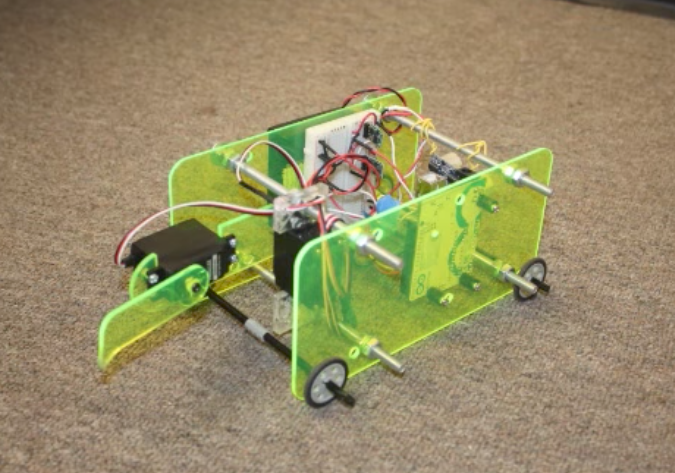
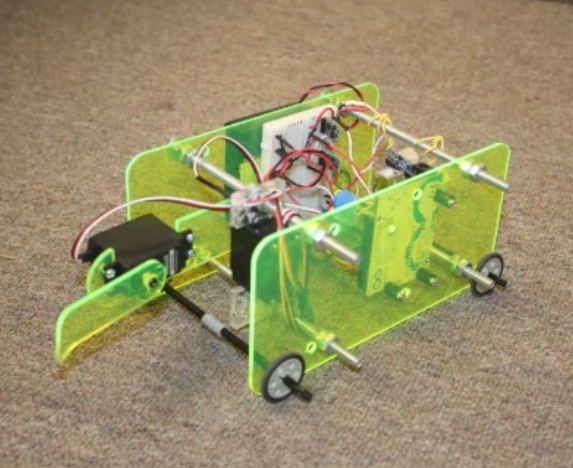
commit

diff --git a/index.md b/index.md
@@ -25,7 +25,7 @@ layout: page
     <p>An interesting property of Wikipedia is that pages often have first-links that lead to their immediate superset.  For example, 'poker' links to 'card game', 'card game' links to 'game', etc.  In this post the first-links of Wikipedia are extracted and used to construct a taxonomy of all pages.  Included is an explorable taxonomy visualizer and some analysis of the taxonomy's structure.</p>
   </td>
   <td width="50%" class="full">
-       <a href="/wikilinks/"><img src="wikilinks/net70k.png" height="210" width="210"></a>
+       <a href="/wikilinks/"><img src="wikilinks/net70k.png" height="420" width="420"></a>
        <br /><br />
    </td>
 </tr>
@@ -41,7 +41,7 @@ layout: page
        <p>This post looks at the effectiveness of deep CNNs for recognizing objects in satellite images.The Functional Map of the World (fMoW) dataset contains satellite images of 62 classes of objects. The objects span a variety of shapes and sizes and have a highly biased class distribution.  This post documents some observations made while training a CNN for the fMoW dataset.</p>
    </td>
    <td width="50%" class="full">
-       <a href="/fmow/"><img src="fmow/notebook-im-probability.png" height="210" width="210"></a>
+       <a href="/fmow/"><img src="fmow/notebook-im-probability.png" height="420" width="420"></a>
        <br /><br />
    </td>
  </tr>
@@ -59,7 +59,7 @@ layout: page
        </p>
    </td>
    <td width="50%" class="full">
-       <a href="/rl/"><img src="rl/notebook_im.png" height="210" width="210"></a>
+       <a href="/rl/"><img src="rl/notebook_im.png" height="420" width="420"></a>
        <br /><br />
    </td>
  </tr>
@@ -78,7 +78,7 @@ layout: page
        </p>
    </td>
    <td width="50%" class="full">
-       <a href="/cm-clustering/"><img src="cm-clustering/notebook_im.png" height="210" width="210"></a>
+       <a href="/cm-clustering/"><img src="cm-clustering/notebook_im.png" height="420" width="420"></a>
        <br /><br />
    </td>
  </tr>
@@ -97,7 +97,7 @@ layout: page
        </p>
    </td>
    <td width="50%" class="full">
-       <a href="/neuroev/"><img src="neuroev/giphy.gif" height="210" width="210"></a>
+       <a href="/neuroev/"><img src="neuroev/giphy.gif" height="420" width="420"></a>
        <br /><br />
    </td>
  </tr>
@@ -115,7 +115,7 @@ layout: page
          </p>
      </td>
      <td width="50%" class="full">
-         <a href="/bellman/"><img src="bellman/dice2.JPG" height="210" width="210"></a>
+         <a href="/bellman/"><img src="bellman/dice2.JPG" height="420" width="420"></a>
          <br /><br />
      </td>
    </tr>
